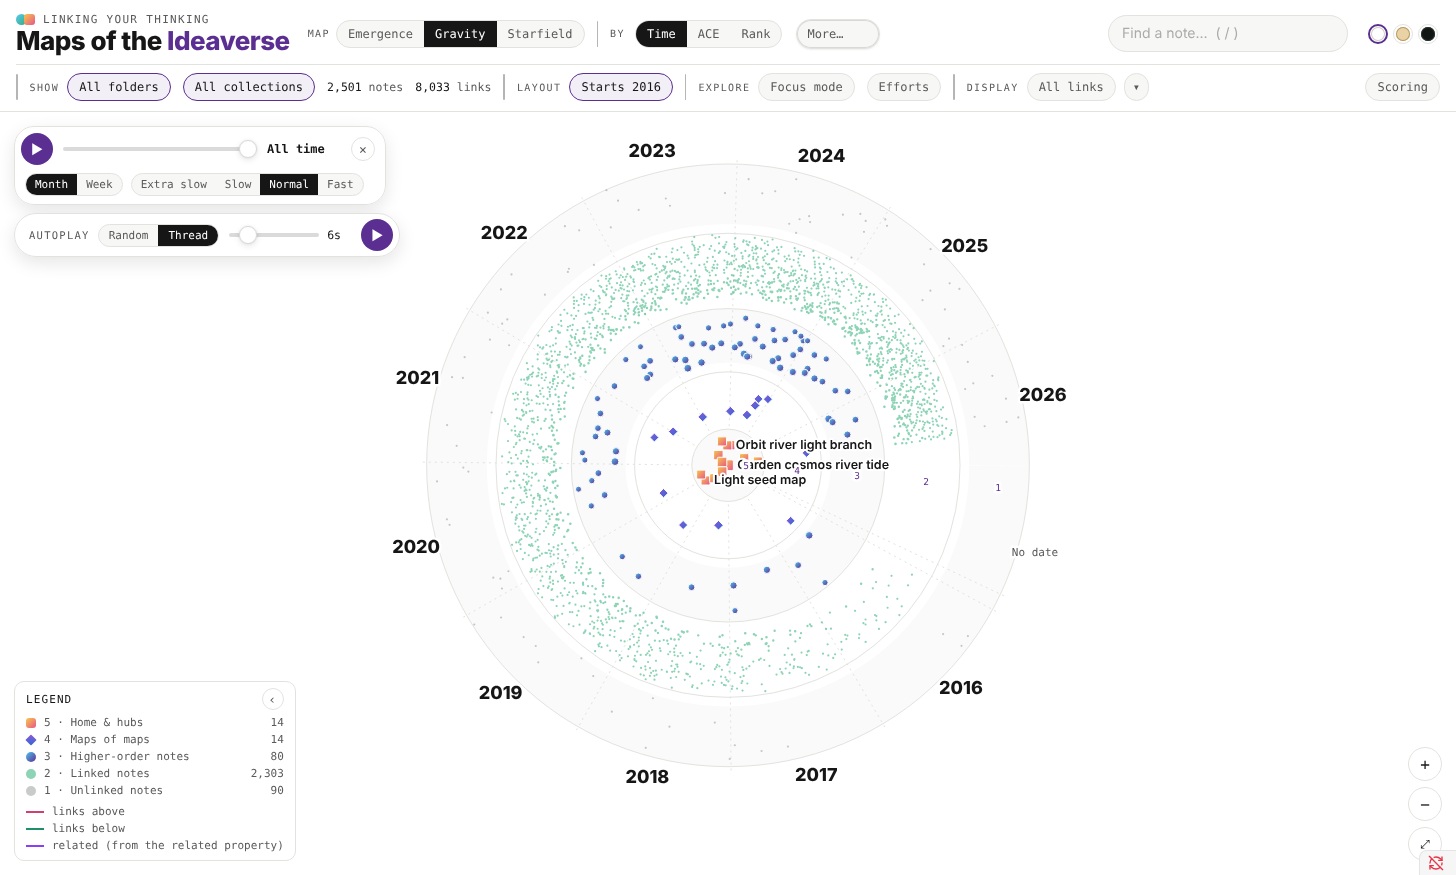
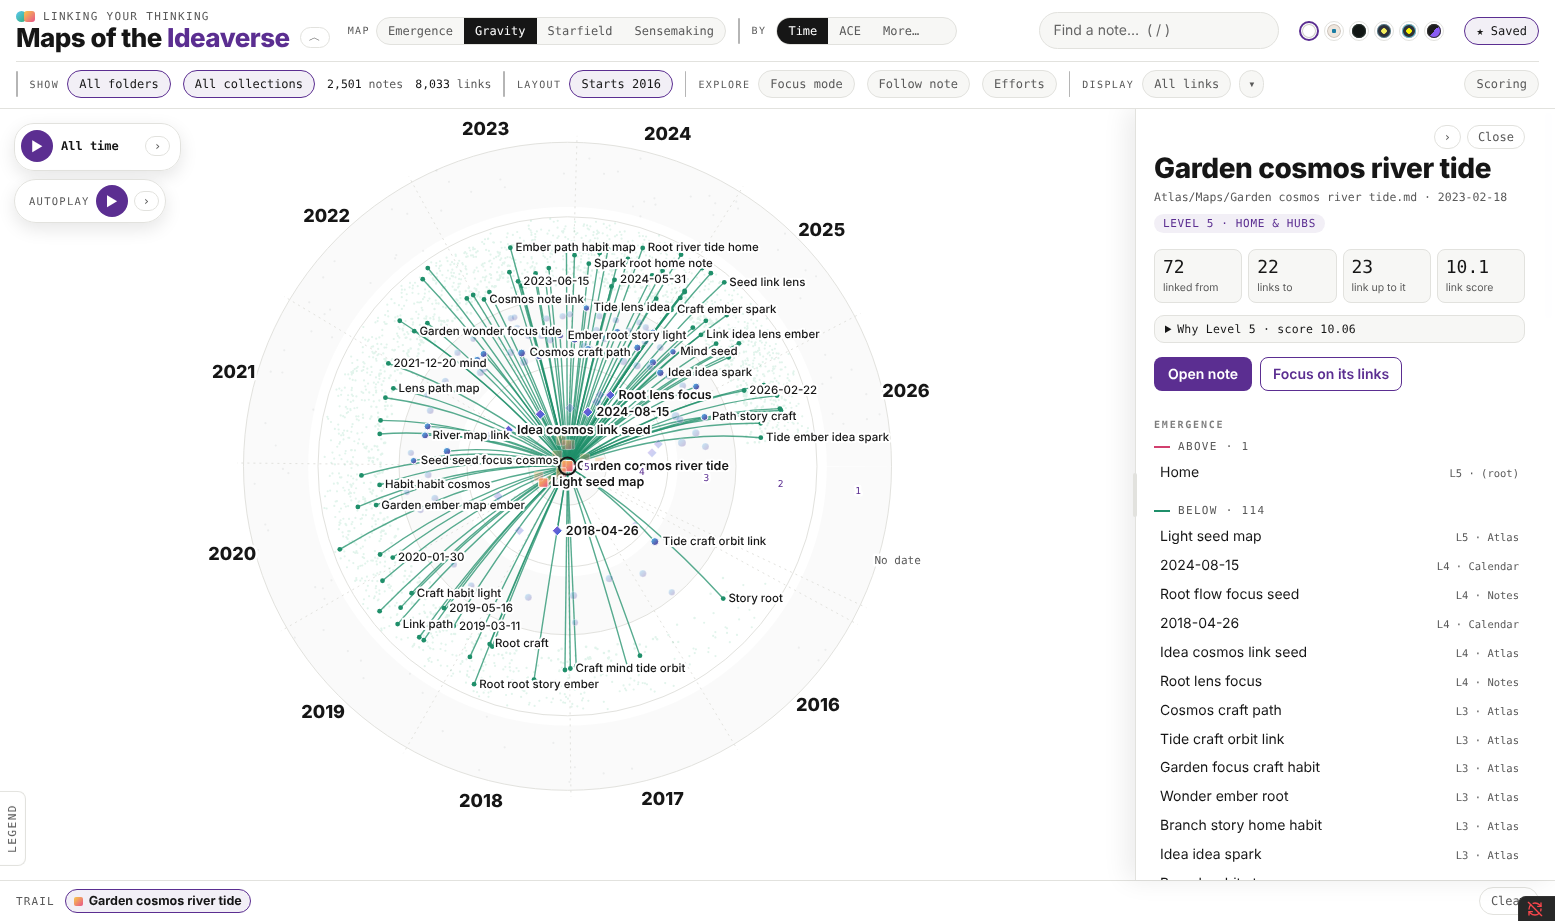
README: six screenshots through the page (made-up vault), one section per map
Claude-Session: https://claude.ai/code/session_01QcxmUUuEka7RWjNHxnTd7Y

diff --git a/test/scenarios/readme-shots.js b/test/scenarios/readme-shots.js
@@ -1,0 +1,38 @@
+// Screenshots for the README (made-up vault). Writes to $SHOTS as readme-*.png
+module.exports = async ({ page, sleep, shot }) => {
+  await page.evaluate(() => require('@electron/remote').getCurrentWindow().setSize(1600, 1000)); await sleep(800);
+  await page.evaluate(() => app.commands.executeCommandById('ideaverse-maps:open'));
+  await page.waitForSelector('.ivm canvas', { timeout: 120000 }); await sleep(2000);
+  const q = s => page.locator('.ivm ' + s).first();
+  const V = 'app.workspace.getLeavesOfType("ideaverse-maps")[0].view.debug';
+  const labels = () => page.evaluate(new Function('return ' + V + '.__ivLHall()'));
+  const theme = async t => { await q(`#themeseg button[data-th="${t}"]`).click(); await sleep(700); };
+  const map = async v => { await q(`#vseg button[data-v="${v}"]`).click(); await sleep(2200); };
+  const pick = async k => { const lh = await labels(); const t = lh[k] || lh[0]; await page.mouse.click(t[0] + 5, t[1] + 6); await sleep(1600); return t[4]; };
+  const clear = async () => { await page.keyboard.press('Escape'); await sleep(300); const x = q('aside .x'); if (await x.isVisible().catch(() => false)) await x.click(); await sleep(500); };
+  const snap = async name => { await page.mouse.move(1, 500); await sleep(500); await page.locator('.ivm').screenshot({ path: require('path').join(process.env.SHOTS, name + '.png') }); console.log('snap', name); };
+  const bars = async collapsed => { for (const s of ['#timebar', '#playbar']) { const on = await page.evaluate(s => document.querySelector('.ivm ' + s).classList.contains('collapsed'), s); if (on !== collapsed) await q(s + ' ' + (s === '#timebar' ? '.tcol' : '.pcol')).click(); } await sleep(400); };
+  const panel = async collapsed => { await page.evaluate(c => { const d = document.querySelector('.ivm aside'), tab = document.querySelector('.ivm .dtab'); if (c && d && !d.hidden) d.querySelector('.dcol, [data-col], button[aria-label*="ollapse"]')?.click(); if (!c && tab && !tab.hidden) tab.click(); }, collapsed); await sleep(900); };
+  // 1 Emergence, LYT Mode, a hub picked, panel tucked away
+  await bars(true); await theme('lyt'); console.log('picked', await pick(1)); await panel(true); await snap('readme-emergence'); await panel(false);
+  // 2 Gravity, Paper
+  await clear(); await theme('paper'); await map('gravity'); await pick(0); await page.evaluate(() => document.querySelector('.ivm #legend').click()); await snap('readme-gravity'); await page.evaluate(() => document.querySelector('.ivm #legtab').click());
+  // 3 Starfield 3D, Dark
+  await clear(); await theme('dark'); await map('stars');
+  await page.evaluate(() => document.querySelector('.ivm input[name="s3d"][value="3d"]').click()); await sleep(3000); await page.evaluate(() => document.body.click()); await snap('readme-starfield');
+  // 4 Sensemaking, Soft Paper
+  await page.evaluate(() => document.querySelector('.ivm input[name="s3d"][value="2d"]').click()); await sleep(800);
+  await theme('softpaper'); await map('sense'); await pick(2); await snap('readme-sensemaking');
+  // 5 time-lapse mid-play, Gravity, Cybertron
+  await clear(); await theme('cybertron'); await map('gravity'); await bars(false);
+  await page.evaluate(new Function(V + '.__ivSense.set(Math.round(' + V + '.__ivSense.steps() * .7))')); await sleep(800);
+  await q('#tlplay').click(); await sleep(2600); await page.locator('.ivm').screenshot({ path: require('path').join(process.env.SHOTS, 'readme-timelapse.png') }); console.log('snap readme-timelapse');
+  await q('#tlplay').click(); await page.evaluate(new Function(V + '.__ivSense.set(' + V + '.__ivSense.steps() - 1)')); await sleep(800); await bars(true); await map('emergence');
+  // 6 Follow note: map beside the editor, Dark
+  await theme('dark'); await q('#follownote').click(); await sleep(300);
+  await pick(3); await sleep(1200);
+  await page.evaluate(() => { const m = app.workspace.getLeavesOfType('ideaverse-maps')[0], e = app.workspace.getLeavesOfType('markdown')[0]; m.parent.setDimension(64); e.parent.setDimension(36); }); await sleep(1500);
+  await pick(3); await sleep(1500);
+  await page.mouse.move(1, 500); await sleep(400);
+  await page.screenshot({ path: require('path').join(process.env.SHOTS, 'readme-follow.png') }); console.log('snap readme-follow');
+};

diff --git a/README.md b/README.md
@@ -6,20 +6,42 @@ See your notes as maps. Every note in your vault gets a place on four maps. Thre
 
 Made by [Nick Milo](https://www.linkingyourthinking.com) of Linking Your Thinking, for anyone with an Obsidian vault (an "ideaverse").
 
-![Emergence map](docs/emergence.png)
+![Emergence: one hub's links fanning out across ten years of notes](docs/emergence.png)
+<sub>Emergence in the LYT Mode theme: a Level 5 hub's links fan out across ten years. All screenshots use a made-up vault of 2,500 notes.</sub>
 
 ## The maps
 
-- **Emergence.** Five bands, one per Idea Emergence level. Left to right is time (when each note was created), or your top folders.
-- **Gravity.** The same levels as rings: home notes and hubs at the center, unlinked notes on the rim. Time or folders go around the clock.
-- **Starfield.** Your biggest hubs become galaxy cores. Every note joins the hub it reaches in the fewest links; maps sit in the bulge, linked notes trail out along the arms, and unlinked notes drift in nebulae, one per folder. Switch to 3D to orbit it, or turn on Drift for a slow screensaver.
-- **Sensemaking.** A 2×2 of four ways of working with notes: Synthesizer (reflection, top-down), Producer (expression, top-down), Inner Guide (reflection, bottom-up) and Creative (expression, bottom-up). Each note is placed by plain rules about where it lives and how it's written (folders, maps, headings and lists, checkboxes and due dates, first-person writing, questions). No AI. Click a note to see exactly which clues moved it. Choose which years it shows under Layout.
+### Emergence
 
-![Starfield](docs/starfield.png)
+Five bands, one per Idea Emergence level. Left to right is time (when each note was created), or your top folders. Click any note to light up its links: up to the maps above it, down to the notes it gathers.
+
+### Gravity
+
+The same levels as rings: home notes and hubs at the center, unlinked notes on the rim. Time or folders go around the clock.
+
+![Gravity: levels as rings, years around the clock](docs/gravity.png)
+<sub>Gravity in the Paper theme, with a hub's links and the note panel open.</sub>
+
+### Starfield
+
+Your biggest hubs become galaxy cores. Every note joins the hub it reaches in the fewest links; maps sit in the bulge, linked notes trail out along the arms, and unlinked notes drift in nebulae, one per folder. Switch to 3D to orbit it, or turn on Drift for a slow screensaver.
+
+![Starfield in 3D: galaxies of notes around their hubs](docs/starfield.png)
+<sub>Starfield in 3D, Dark theme. Each galaxy is a hub and the notes that reach it first.</sub>
+
+### Sensemaking
+
+A 2×2 of four ways of working with notes: Synthesizer (reflection, top-down), Producer (expression, top-down), Inner Guide (reflection, bottom-up) and Creative (expression, bottom-up). Each note is placed by plain rules about where it lives and how it's written (folders, maps, headings and lists, checkboxes and due dates, first-person writing, questions). No AI. Click a note to see exactly which clues moved it. Choose which years it shows under Layout.
+
+![Sensemaking: the four quadrants, with a note's reasons in the panel](docs/sensemaking.png)
+<sub>Sensemaking in the Soft Paper theme. The panel shows why this note is a Synthesizer.</sub>
 
 ## The time-lapse
 
 Press ▶ on the timeline to replay your vault by month or by week. New notes arrive (popcorn, comets, rain, or a swirl), and notes move up a level as their links arrive. Click a note at any point to pause and look around; Resume carries on.
+
+![The time-lapse playing on Gravity, November 2023](docs/timelapse.png)
+<sub>The time-lapse mid-play on Gravity, Cybertron theme: November 2023's new notes burst in around the clock.</sub>
 
 ## How notes get their level
 
@@ -43,6 +65,9 @@ The score counts links in, links out, links both ways, and uplinks (the `up` and
 - Filter by folder (drill into subfolders with ›) or by collection. Folder views use your top folders, whatever they're called; ACE folders (Atlas, Calendar, Efforts) get their symbols.
 - When notes change, the map offers a rescan.
 - Six themes: Paper, Soft Paper, Dark, LYT Mode, Cybertron, or match your own Obsidian theme (the last swatch), which follows it as you switch.
+
+![Follow note: the map beside the editor, each following the other](docs/follow.png)
+<sub>Follow note: pick a note on the map and it opens in the editor beside it; switch notes in the editor and the map follows.</sub>
 
 ## Settings
 
